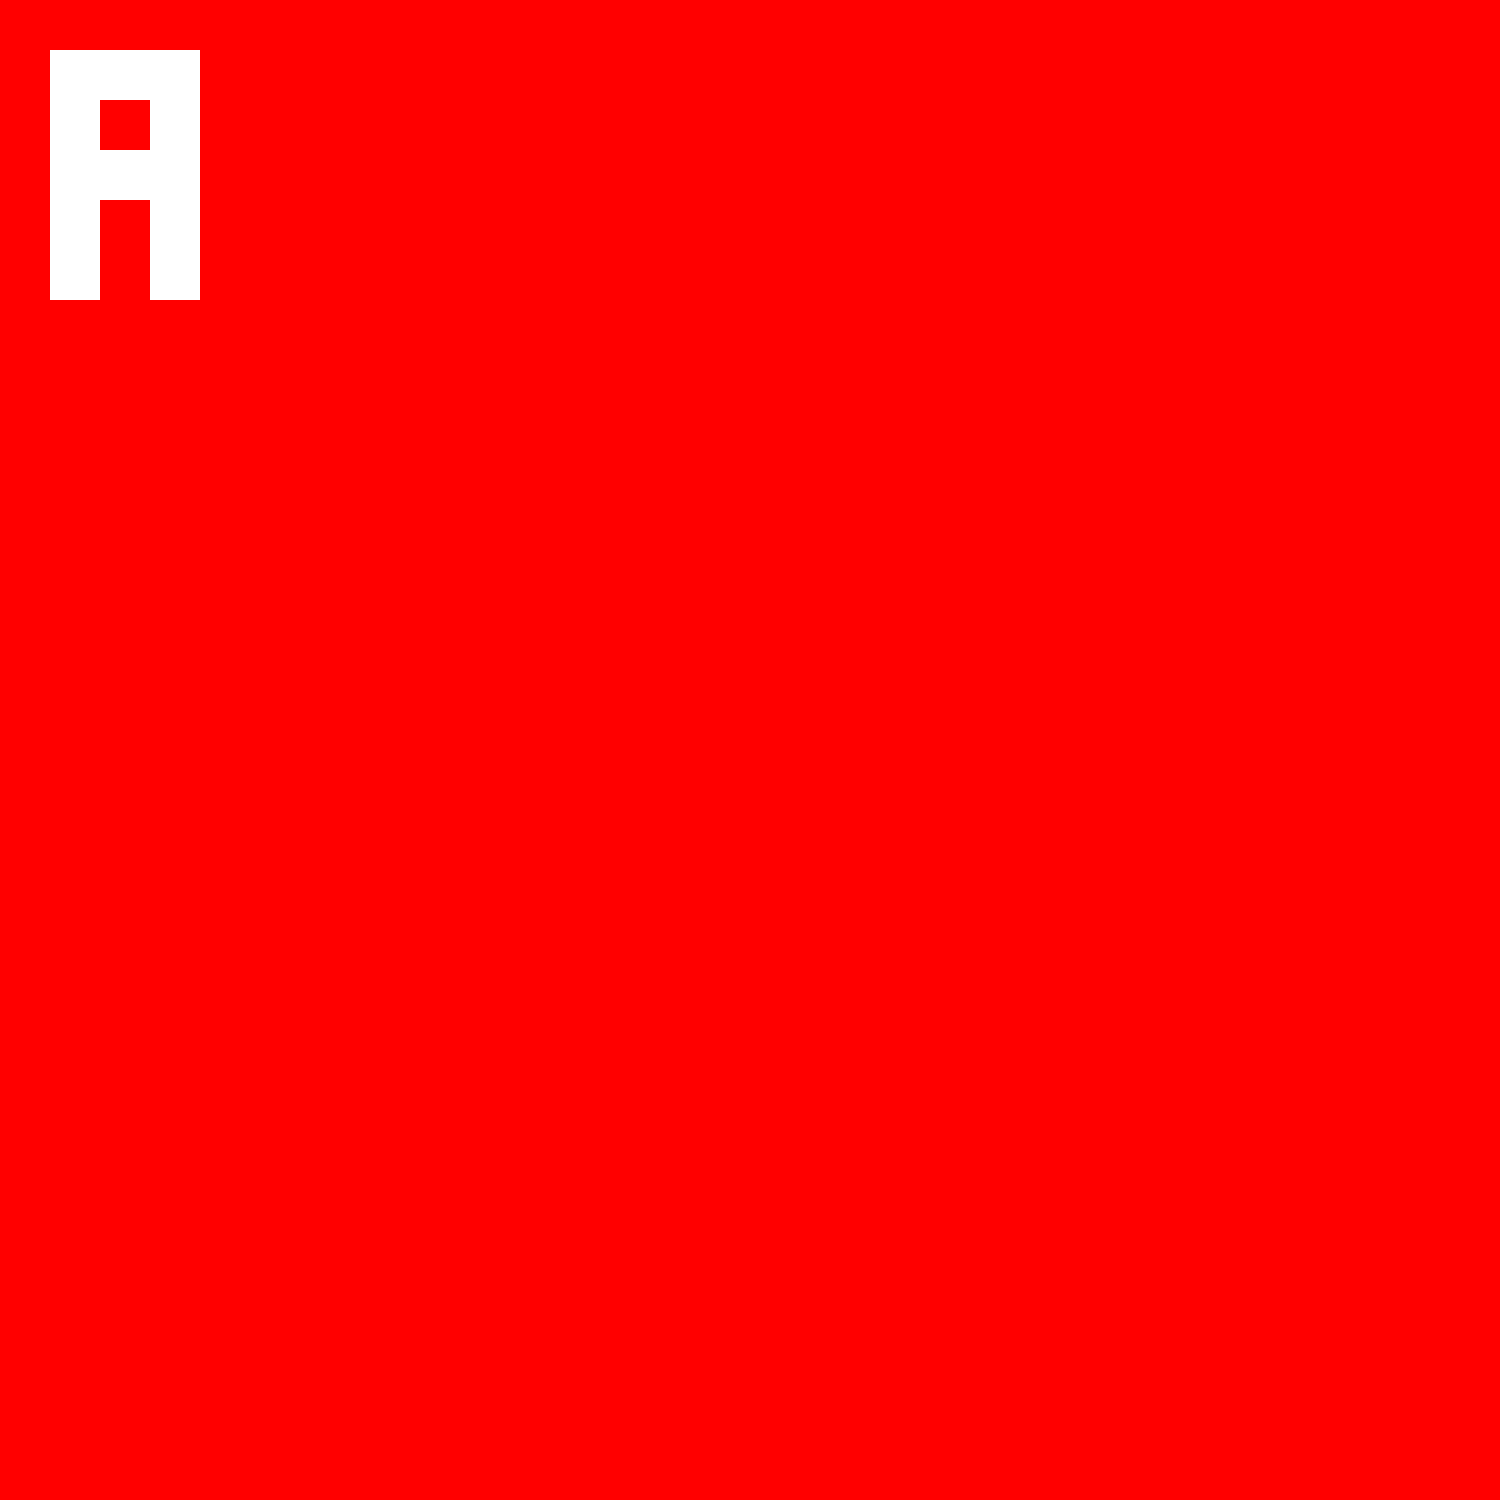
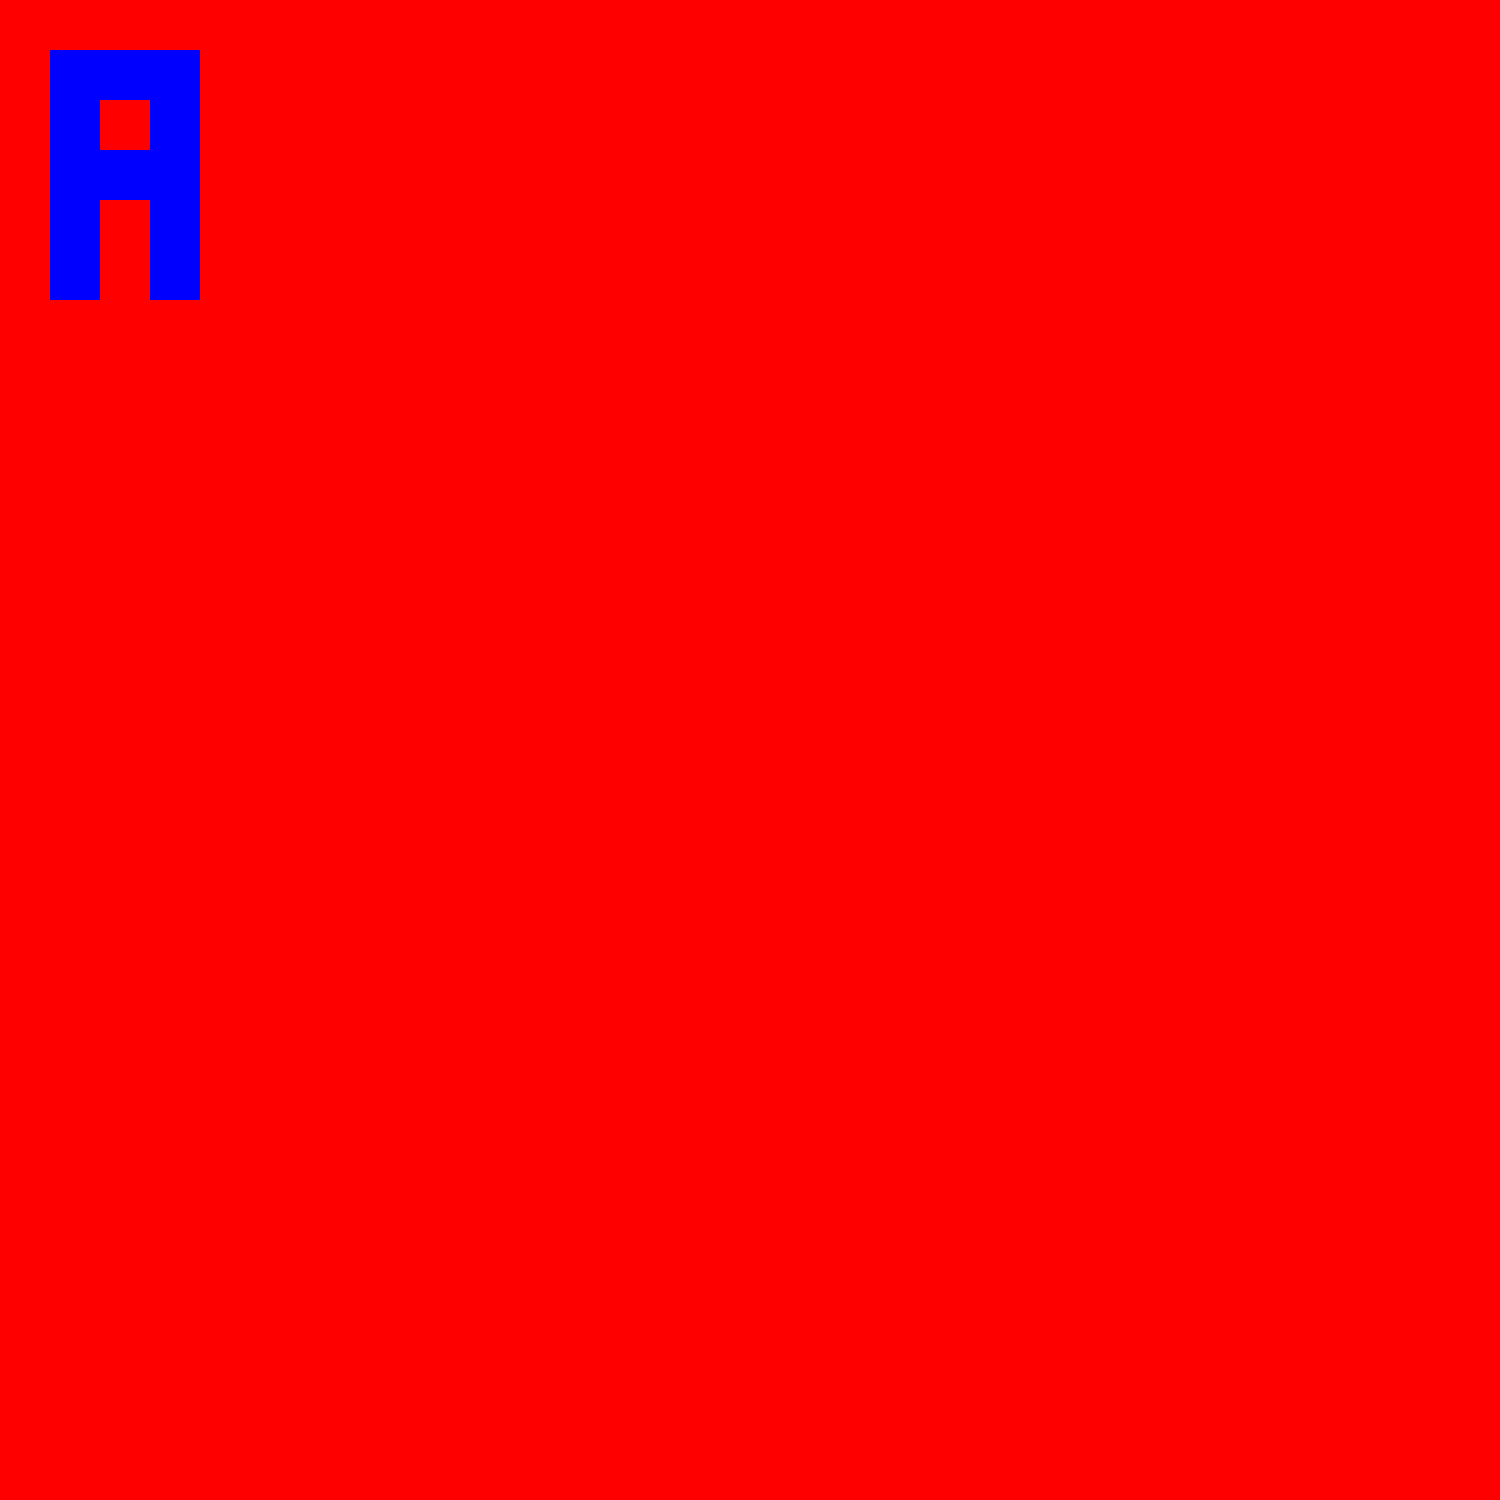
program now accepts input parameters

Changed region(s): [[0.0307, 0.0307, 0.1533, 0.2147]]

diff --git a/main.py b/main.py
@@ -51,8 +51,11 @@ def generateImage(pixel_rows):
     return img_small
 
 
-mosaic_background_color = "red"
-mosaic_text_color = "white"
+mosaic_background_color = input("Enter background color [red, orange, yellow, green, blue, white]: ")
+mosaic_text_color = input("Enter text color [red, orange, yellow, green, blue, white]: ")
+width_cubes = int(input("Enter how many cubes wide the mosaic will be: "))
+height_cubes = int(input("Enter how many cubes tall the mosaic will be: "))
+print(f"{width_cubes} cubes wide * {height_cubes} cubes tall = {width_cubes * height_cubes} cubes total")
 rows = generate_grid(mosaic_background_color, 10, 10)
 current_x = 1
 current_y = 1
